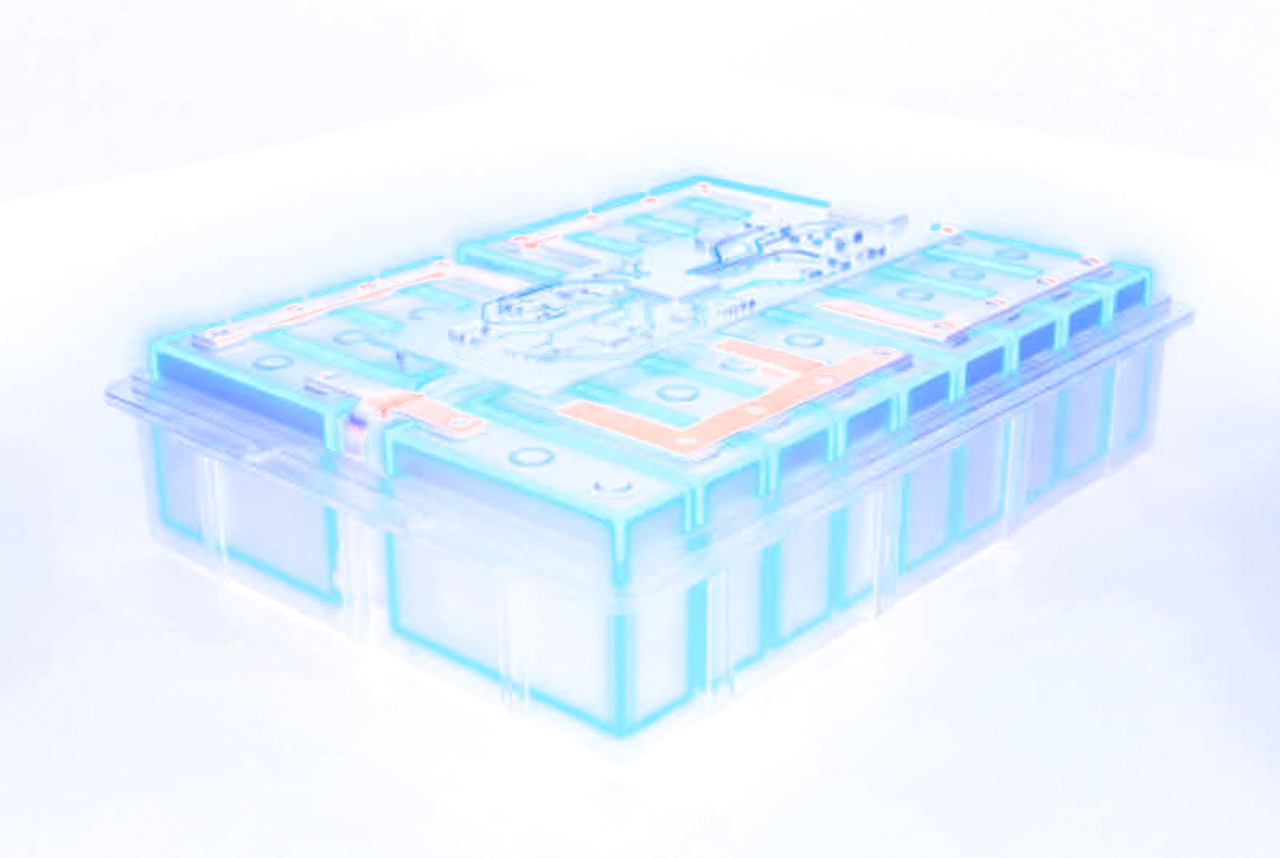
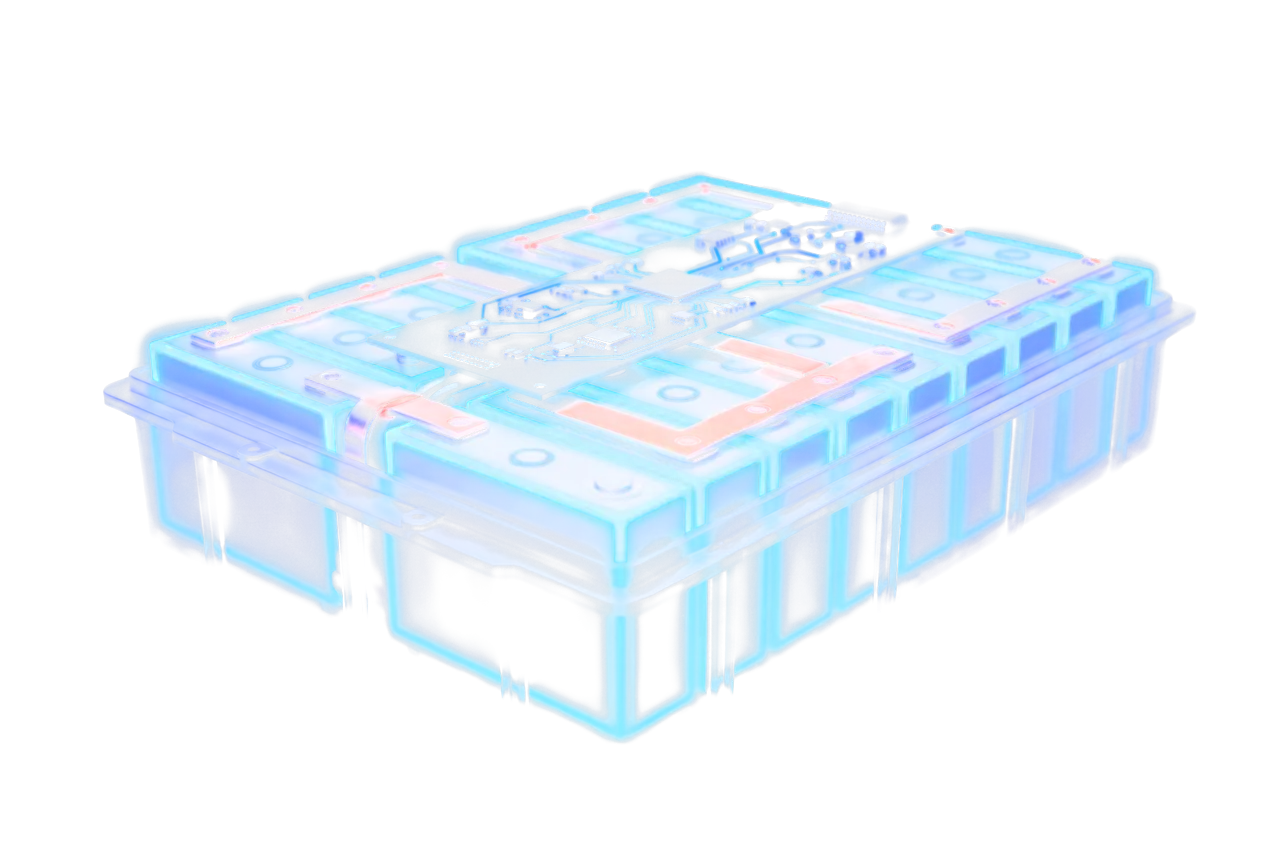
Clean projections (noise-aware keying, new globe), space finale with aurora + ringed planet, masked sheen

diff --git a/src/space.js b/src/space.js
@@ -31,10 +31,11 @@ function make(origin, tangent) {
     uniforms: { uTime: { value: 0 }, uStr: { value: 0 },
       cDeep: { value: new THREE.Color("#05070F") }, cIndigo: { value: new THREE.Color("#3B2E8C") },
       cBlue: { value: new THREE.Color("#1D4ED8") }, cCyan: { value: new THREE.Color("#5FE3FF") },
-      cViolet: { value: new THREE.Color("#8B5CF6") }, uAxis: { value: T.clone() } },
+      cViolet: { value: new THREE.Color("#8B5CF6") }, cGreen: { value: new THREE.Color("#3DFFB0") },
+      cYellow: { value: new THREE.Color("#FFE27A") }, uAxis: { value: T.clone() } },
     vertexShader: `varying vec3 vDir; void main(){ vDir = normalize(position); gl_Position = projectionMatrix * modelViewMatrix * vec4(position, 1.0); }`,
     fragmentShader: `precision highp float; varying vec3 vDir;
-      uniform float uTime, uStr; uniform vec3 cDeep, cIndigo, cBlue, cCyan, cViolet, uAxis;
+      uniform float uTime, uStr; uniform vec3 cDeep, cIndigo, cBlue, cCyan, cViolet, cGreen, cYellow, uAxis;
       ${NOISE}
       float stars(vec3 d, float scale, float thr, float tw){
         vec3 p = d * scale; vec3 i = floor(p); vec3 f = fract(p) - 0.5;
@@ -48,8 +49,9 @@ function make(origin, tangent) {
         vec3 d = normalize(vDir);
         // nebula: two layers of fbm pulled toward the pipe axis so the exit opens into a glowing cloud
         float axial = pow(max(0.0, dot(d, uAxis)), 1.6);
-        float n1 = fbm(d * 2.2 + vec3(uTime * 0.008, 0.0, 0.0));
-        float n2 = fbm(d * 5.0 - vec3(0.0, uTime * 0.006, 0.0));
+        float n1 = fbm(d * 2.2 + vec3(uTime * 0.020, uTime * 0.007, 0.0));
+        float n2 = fbm(d * 5.0 - vec3(0.0, uTime * 0.016, uTime * 0.005));
+        float n3 = fbm(d * 3.4 + vec3(uTime * 0.011, -uTime * 0.009, 4.0));
         float cloud = smoothstep(0.38, 0.85, n1 * 0.7 + n2 * 0.5);
         float wisps = smoothstep(0.55, 0.95, n2);
         vec3 neb = cDeep;
@@ -57,6 +59,14 @@ function make(origin, tangent) {
         neb = mix(neb, cBlue * 0.85, cloud * wisps * 0.9);
         neb = mix(neb, cViolet * 0.7, smoothstep(0.6, 0.9, n1) * (1.0 - axial) * 0.5);
         neb += cCyan * pow(wisps, 3.0) * 0.35 * (0.5 + axial);
+        // aurora: living green-teal curtains that ripple through the cloud, with golden cores
+        float aur = smoothstep(0.40, 0.78, n3) * (0.65 + 0.35 * sin(uTime * 0.6 + n1 * 12.0));
+        neb = mix(neb, cGreen * 0.85, aur * (0.35 + cloud * 0.65));
+        neb += cYellow * pow(aur, 2.0) * 0.55 * (0.5 + 0.5 * sin(uTime * 0.9 + n2 * 20.0));
+        neb += cGreen * pow(max(0.0, n2 - 0.5) * 2.0, 2.0) * 0.35;
+        // slow golden shafts sweeping across (light through the cloud)
+        float shaft = pow(0.5 + 0.5 * sin(dot(d, vec3(3.0, 5.0, 2.0)) * 4.0 + uTime * 0.25 + n1 * 3.0), 6.0);
+        neb += cYellow * shaft * 0.10 * cloud;
         neb *= 0.55 + axial * 0.9;
         // a luminous band (our galaxy) across the sky
         float band = exp(-pow(dot(d, normalize(cross(uAxis, vec3(0.3, 1.0, 0.2)))), 2.0) * 9.0);
@@ -65,7 +75,10 @@ function make(origin, tangent) {
         float st = stars(d, 60.0, 0.955, 1.0) * 1.4
                  + stars(d, 130.0, 0.945, 1.6) * 0.9
                  + stars(d, 260.0, 0.93, 2.2) * 0.5;
-        vec3 col = neb + vec3(0.9, 0.96, 1.0) * st * (0.7 + band * 0.8);
+        // stars in three temperatures: ice-white, warm gold, faint green
+        float hue = hash(floor(d * 60.0) + 9.0);
+        vec3 starCol = hue < 0.55 ? vec3(0.9, 0.96, 1.0) : (hue < 0.85 ? cYellow : cGreen);
+        vec3 col = neb + starCol * st * (0.8 + band * 0.9);
         gl_FragColor = vec4(col * uStr, 1.0);
       }`
   });
@@ -76,36 +89,50 @@ function make(origin, tangent) {
   const sunDir = new THREE.Vector3().copy(T).multiplyScalar(-0.3).addScaledVector(R, -0.8).addScaledVector(U, 0.5).normalize();
   const planetMat = new THREE.ShaderMaterial({
     uniforms: { uTime: { value: 0 }, uStr: { value: 0 }, uSun: { value: sunDir },
-      cA: { value: new THREE.Color("#0B1A4A") }, cB: { value: new THREE.Color("#1D4ED8") },
-      cC: { value: new THREE.Color("#5FE3FF") }, cD: { value: new THREE.Color("#3B2E8C") } },
+      cA: { value: new THREE.Color("#12327F") }, cB: { value: new THREE.Color("#5FA8FF") },
+      cC: { value: new THREE.Color("#E6FAFF") }, cD: { value: new THREE.Color("#A48BFF") },
+      cGold: { value: new THREE.Color("#FFE7B8") } },
     vertexShader: `varying vec3 vN; varying vec3 vP; varying vec3 vV;
       void main(){ vN = normalize(normalMatrix * normal); vP = position;
         vec4 mv = modelViewMatrix * vec4(position, 1.0); vV = normalize(-mv.xyz); gl_Position = projectionMatrix * mv; }`,
     fragmentShader: `precision highp float; varying vec3 vN; varying vec3 vP; varying vec3 vV;
-      uniform float uTime, uStr; uniform vec3 uSun, cA, cB, cC, cD;
+      uniform float uTime, uStr; uniform vec3 uSun, cA, cB, cC, cD, cGold;
       ${NOISE}
       void main(){
         vec3 p = normalize(vP);
         float lat = p.y;
-        float turb = fbm(vec3(p.x * 3.0 + uTime * 0.02, lat * 9.0, p.z * 3.0)) - 0.5;
-        float bands = sin(lat * 26.0 + turb * 6.0) * 0.5 + 0.5;
-        float storm = smoothstep(0.75, 0.95, fbm(p * 6.0 + 3.0));
-        vec3 col = mix(cA, cB, bands);
-        col = mix(col, cD, smoothstep(0.3, 0.7, fbm(vec3(lat * 4.0, p.x, p.z) + 7.0)) * 0.6);
-        col = mix(col, cC, storm * 0.5);
+        // flowing bands: turbulence shears the latitude lines, slowly drifting
+        float turb = fbm(vec3(p.x * 2.6 + uTime * 0.03, lat * 8.0, p.z * 2.6)) - 0.5;
+        float turb2 = fbm(vec3(p.x * 7.0 - uTime * 0.02, lat * 20.0, p.z * 7.0) + 5.0) - 0.5;
+        float b1 = sin(lat * 22.0 + turb * 7.0 + turb2 * 2.0) * 0.5 + 0.5;
+        float b2 = sin(lat * 47.0 - turb * 4.0) * 0.5 + 0.5;
+        float storm = smoothstep(0.72, 0.95, fbm(p * 5.0 + vec3(uTime * 0.01, 0.0, 0.0) + 3.0));
+        vec3 col = mix(cA, cB, pow(b1, 1.4));
+        col = mix(col, cD, smoothstep(0.35, 0.75, b2) * 0.30 * (1.0 - b1));
+        col = mix(col, cC, storm * 0.7 + pow(b1, 6.0) * 0.25);
+        // polar ice caps with a rippling green aurora ring around them
+        col = mix(col, cC, smoothstep(0.78, 0.95, abs(lat)) * 0.7);
+        float auroraRing = smoothstep(0.62, 0.72, abs(lat)) * (1.0 - smoothstep(0.74, 0.84, abs(lat)));
+        float ripple = 0.5 + 0.5 * sin(atan(p.z, p.x) * 9.0 + uTime * 1.3 + turb * 6.0);
+        col += vec3(0.24, 1.0, 0.69) * auroraRing * ripple * 0.55;
         vec3 N = normalize(vN);
-        float diff = max(0.0, dot(N, normalize((viewMatrix * vec4(uSun, 0.0)).xyz)));
-        float wrap = pow(diff, 0.6) * 1.15 + 0.10;
+        vec3 L = normalize((viewMatrix * vec4(uSun, 0.0)).xyz);
+        float diff = max(0.0, dot(N, L));
+        float wrap = pow(diff, 0.55) * 1.2 + 0.08;
         float fres = pow(1.0 - max(0.0, dot(N, vV)), 3.0);
-        col = col * wrap + cC * fres * (0.35 + diff * 0.6);
+        // champagne-gold light along the terminator, icy blue atmosphere on the rim
+        float term = smoothstep(0.0, 0.25, diff) * (1.0 - smoothstep(0.25, 0.6, diff));
+        col = col * wrap + cGold * term * 0.16 + cB * fres * (0.35 + diff * 0.8) + cC * fres * fres * 0.5;
         gl_FragColor = vec4(col * uStr, 1.0);
       }`
   });
   const planet = new THREE.Mesh(new THREE.SphereGeometry(58, 64, 48), planetMat);
   const pPos = origin.clone().addScaledVector(T, 210).addScaledVector(R, 95).addScaledVector(U, 28);
-  planet.position.copy(pPos);
-  planet.rotation.z = 0.35; planet.rotation.x = 0.2;
-  group.add(planet);
+  const system = new THREE.Group();            // planet + ring share one axial tilt
+  system.position.copy(pPos);
+  system.rotation.set(0.42, 0.0, 0.30);
+  group.add(system);
+  system.add(planet);
 
   const ringMat = new THREE.ShaderMaterial({
     side: THREE.DoubleSide, transparent: true, depthWrite: false,
@@ -119,7 +146,8 @@ function make(origin, tangent) {
         float lanes = smoothstep(0.35, 0.8, g) * (1.0 - smoothstep(0.92, 1.0, r)) * smoothstep(0.0, 0.08, r);
         float gap = 1.0 - smoothstep(0.55, 0.58, r) * (1.0 - smoothstep(0.62, 0.65, r));
         float a = lanes * gap * 0.55;
-        vec3 col = mix(cB, cC, r) * (0.55 + 0.45 * g);
+        vec3 col = mix(mix(vec3(1.0, 0.89, 0.55), cB, smoothstep(0.0, 0.25, r)), cC, r) * (0.55 + 0.45 * g);
+        col = mix(col, vec3(0.45, 1.0, 0.75), smoothstep(0.78, 0.86, r) * (1.0 - smoothstep(0.86, 0.9, r)) * 0.6);
         gl_FragColor = vec4(col * uStr, a * uStr);
       }`
   });
@@ -128,9 +156,8 @@ function make(origin, tangent) {
   { const uv = ringGeo.attributes.uv, pos = ringGeo.attributes.position;
     for (let i = 0; i < uv.count; i++) { const x = pos.getX(i), y = pos.getY(i); uv.setXY(i, (Math.hypot(x, y) - 74) / (128 - 74), 0); } }
   const ring = new THREE.Mesh(ringGeo, ringMat);
-  ring.position.copy(pPos);
-  ring.rotation.set(Math.PI / 2 - 0.42, 0.18, 0.35);
-  group.add(ring);
+  ring.rotation.x = Math.PI / 2;                 // equatorial plane of the tilted system
+  system.add(ring);
 
   // atmosphere halo (additive sprite)
   const haloTex = (() => { const c = document.createElement("canvas"); c.width = c.height = 256;
@@ -142,7 +169,7 @@ function make(origin, tangent) {
   group.add(halo);
 
   /* ---- drifting dust ---- */
-  const COUNT = isMobile ? 500 : 1400;
+  const COUNT = isMobile ? 700 : 2200;
   const geo = new THREE.BufferGeometry();
   const arr = new Float32Array(COUNT * 3), sh = new Float32Array(COUNT);
   for (let i = 0; i < COUNT; i++) {
@@ -161,12 +188,43 @@ function make(origin, tangent) {
     fragmentShader: `precision highp float; varying float vS; uniform float uStr, uTime; uniform vec3 cB, cC;
       void main(){ float d = length(gl_PointCoord - 0.5); float a = smoothstep(0.5, 0.0, d);
         float tw = 0.6 + 0.4 * sin(uTime * (1.0 + vS * 2.0) + vS * 50.0);
-        gl_FragColor = vec4(mix(cB, cC, vS), a * tw * 0.8 * uStr); }`
+        vec3 col = vS < 0.6 ? mix(cB, cC, vS / 0.6) : (vS < 0.82 ? vec3(1.0, 0.88, 0.48) : vec3(0.35, 1.0, 0.7));
+        gl_FragColor = vec4(col, a * tw * 0.85 * uStr); }`
   });
   const dust = new THREE.Points(geo, dustMat); dust.frustumCulled = false;
   group.add(dust);
 
   sky.position.copy(origin).addScaledVector(T, 40);
+
+  /* ---- two moons on tilted orbits ---- */
+  const moonMat = new THREE.ShaderMaterial({
+    uniforms: { uStr: { value: 0 }, uSun: { value: sunDir }, cM: { value: new THREE.Color("#C9D6EA") }, cR: { value: new THREE.Color("#7FB8FF") } },
+    vertexShader: `varying vec3 vN; varying vec3 vV; varying vec3 vP; void main(){ vN = normalize(normalMatrix * normal); vP = position;
+      vec4 mv = modelViewMatrix * vec4(position, 1.0); vV = normalize(-mv.xyz); gl_Position = projectionMatrix * mv; }`,
+    fragmentShader: `precision highp float; varying vec3 vN; varying vec3 vV; varying vec3 vP; uniform float uStr; uniform vec3 uSun, cM, cR;
+      ${NOISE}
+      void main(){ vec3 N = normalize(vN); float diff = max(0.0, dot(N, normalize((viewMatrix * vec4(uSun, 0.0)).xyz)));
+        float crat = fbm(normalize(vP) * 9.0); vec3 col = cM * (0.55 + 0.45 * crat) * (pow(diff, 0.7) * 1.1 + 0.05);
+        col += cR * pow(1.0 - max(0.0, dot(N, vV)), 3.0) * 0.4; gl_FragColor = vec4(col * uStr, 1.0); }`
+  });
+  const moons = [
+    { m: new THREE.Mesh(new THREE.SphereGeometry(7, 32, 24), moonMat), r: 150, speed: 0.11, tilt: 0.35, phase: 0.8 },
+    { m: new THREE.Mesh(new THREE.SphereGeometry(4, 24, 16), moonMat), r: 195, speed: 0.07, tilt: -0.22, phase: 3.4 }
+  ];
+  moons.forEach(o => group.add(o.m));
+
+  /* ---- comets: additive streaks that cross the sky now and then ---- */
+  const cometTex = (() => { const c = document.createElement("canvas"); c.width = 256; c.height = 16;
+    const g = c.getContext("2d"), lg = g.createLinearGradient(0, 0, 256, 0);
+    lg.addColorStop(0, "rgba(255,255,255,0)"); lg.addColorStop(0.75, "rgba(160,220,255,0.35)"); lg.addColorStop(0.97, "rgba(255,255,255,1)"); lg.addColorStop(1, "rgba(255,255,255,0)");
+    g.fillStyle = lg; g.fillRect(0, 0, 256, 16); return new THREE.CanvasTexture(c); })();
+  const comets = [];
+  for (let i = 0; i < 3; i++) {
+    const m = new THREE.Mesh(new THREE.PlaneGeometry(60, 1.6), new THREE.MeshBasicMaterial({ map: cometTex, transparent: true, opacity: 0,
+      blending: THREE.AdditiveBlending, depthWrite: false, side: THREE.DoubleSide }));
+    group.add(m); comets.push({ m, t0: -10 - i * 7, period: 11 + i * 5, dur: 2.2, a: Math.random() * 6.28, b: Math.random(), armed: false });
+  }
+  const _cp = new THREE.Vector3(), _cd = new THREE.Vector3(), _X = new THREE.Vector3(1, 0, 0), _cq = new THREE.Quaternion();
   group.visible = false;
 
   return {
@@ -178,7 +236,29 @@ function make(origin, tangent) {
       planetMat.uniforms.uTime.value = t; planetMat.uniforms.uStr.value = str;
       ringMat.uniforms.uStr.value = str; halo.material.opacity = str * 0.9;
       dustMat.uniforms.uTime.value = t; dustMat.uniforms.uStr.value = str;
-      planet.rotation.y = t * 0.02;
+      planet.rotation.y = t * 0.06;
+      sky.rotation.y = t * 0.004; sky.rotation.x = Math.sin(t * 0.03) * 0.02;
+      ring.rotation.z = t * 0.01;
+      moonMat.uniforms.uStr.value = str;
+      moons.forEach(o => {
+        const a = t * o.speed + o.phase;
+        o.m.position.copy(pPos).addScaledVector(R, Math.cos(a) * o.r).addScaledVector(T, Math.sin(a) * o.r * 0.55)
+          .addScaledVector(U, Math.sin(a) * o.r * o.tilt);
+        o.m.rotation.y = t * 0.2;
+      });
+      comets.forEach(c => {
+        const k = ((t - c.t0) % c.period + c.period) % c.period;    // time since this comet last launched
+        if (k > c.dur) { c.m.material.opacity = 0; c.armed = false; return; }
+        const f = k / c.dur;
+        if (!c.armed) { c.a = Math.random() * 6.28; c.b = Math.random(); c.armed = true; }
+        // start high and to one side, streak across the field ahead of the exit
+        _cp.copy(origin).addScaledVector(T, 120 + c.b * 120).addScaledVector(R, Math.cos(c.a) * 150).addScaledVector(U, Math.sin(c.a) * 110 + 60);
+        _cd.copy(R).multiplyScalar(-1.0).addScaledVector(U, -0.7).addScaledVector(T, 0.2).normalize();
+        _cp.addScaledVector(_cd, f * 260);
+        c.m.position.copy(_cp);
+        _cq.setFromUnitVectors(_X, _cd); c.m.quaternion.copy(_cq);
+        c.m.material.opacity = Math.sin(f * Math.PI) * 0.9 * str;
+      });
     }
   };
 }

diff --git a/index.html b/index.html
@@ -167,8 +167,11 @@
     width:clamp(280px,34vw,500px); pointer-events:none; }
   /* soft dark halo behind each projection so it reads on ANY background,
      including the bright tunnel core on phones */
-  .st-viz-wrap::before{ content:""; position:absolute; inset:-14%; z-index:-1;
-    background:radial-gradient(52% 52% at 50% 50%, rgba(4,7,13,.78), transparent 74%); }
+  /* no halo on desktop: the projections carry real transparency, so any box shows */
+  .st-viz-wrap::before{ content:none; }
+  @media (max-width:720px){
+    .st-viz-wrap::before{ content:""; position:absolute; inset:-30%; z-index:-1; border-radius:50%;
+      background:radial-gradient(closest-side, rgba(4,7,13,.55), transparent); } }
   .st-viz{ width:100%; height:auto; display:block;
     filter:drop-shadow(0 0 26px rgba(59,130,246,.20)); }
 
@@ -180,10 +183,13 @@
     -webkit-mask-image:radial-gradient(120% 120% at 50% 50%, #000 58%, transparent 92%);
             mask-image:radial-gradient(120% 120% at 50% 50%, #000 58%, transparent 92%); }
   .st-photo img{ width:100%; height:auto; display:block; transform-origin:60% 45%;
-    filter:drop-shadow(0 0 34px rgba(59,130,246,.22));
+    filter:drop-shadow(0 0 14px rgba(95,227,255,.12));
     animation:kenburns 22s ease-in-out infinite alternate,
               holoflicker 8.5s linear infinite; }
-  .st-photo::after{ content:""; position:absolute; inset:-10%;
+  /* the light sweep is masked by the projection itself, so it only ever touches the subject */
+  .st-photo::after{ content:""; position:absolute; inset:0;
+    -webkit-mask-image:var(--img); mask-image:var(--img);
+    -webkit-mask-size:100% 100%; mask-size:100% 100%; -webkit-mask-repeat:no-repeat; mask-repeat:no-repeat;
     background:linear-gradient(112deg, transparent 43%,
       rgba(170,225,255,.16) 50%, rgba(170,225,255,.05) 53%, transparent 60%);
     animation:sheen 6.5s ease-in-out infinite; pointer-events:none; }
@@ -479,10 +485,10 @@
 <script src="lib/gsap.min.js"></script>
 <script src="lib/ScrollTrigger.min.js"></script>
 <script src="lib/lenis.min.js"></script>
-<script src="src/content.js?v=7"></script>
-<script src="src/scenes.js?v=7"></script>
-<script src="src/viz.js?v=7"></script>
-<script src="src/space.js?v=7"></script>
-<script src="src/app.js?v=7"></script>
+<script src="src/content.js?v=9"></script>
+<script src="src/scenes.js?v=9"></script>
+<script src="src/viz.js?v=9"></script>
+<script src="src/space.js?v=9"></script>
+<script src="src/app.js?v=9"></script>
 </body>
 </html>

diff --git a/src/app.js b/src/app.js
@@ -559,9 +559,14 @@ function rigCamera(p) {
     // leaving the pipe: drift out of the mouth into open space, eyes on the planet
     const ex = smoother(ramp(p, 0.940, 1.0));
     if (ex > 0 && space) {
+      // glide out, then a slow cinematic drift/orbit while parked at the end
       camera.position.addScaledVector(camTan, ex * 48);
+      const right = camTan.clone().cross(worldUp).normalize();
+      camera.position.addScaledVector(right, Math.sin(nowS * 0.11) * 7 * ex);
+      camera.position.addScaledVector(worldUp, Math.cos(nowS * 0.09) * 4 * ex);
       _v2.copy(camera.position).addScaledVector(camTan, 12);
-      _v2.lerp(space.planetPos, ex * 0.10);
+      _v2.lerp(space.planetPos, ex * 0.16);
+      _v2.addScaledVector(right, Math.sin(nowS * 0.07 + 1.0) * 3 * ex);
       camera.up.lerp(worldUp, ex);
       camera.lookAt(_v2);
     }
@@ -597,7 +602,7 @@ CV.stations.forEach((st, i) => {
         <div class="st-tools"></div>
         <ul class="st-bullets"></ul>
       </div>
-      ${hasImg ? '<div class="st-viz-wrap"><div class="st-photo"><img src="' + st.img + '" alt="" loading="lazy" /></div></div>' : ""}
+      ${hasImg ? '<div class="st-viz-wrap"><div class="st-photo" style="--img:url(' + st.img + ')"><img src="' + st.img + '" alt="" loading="lazy" /></div></div>' : ""}
       ${hasViz ? '<div class="st-viz-wrap"><canvas class="st-viz" width="560" height="340"></canvas></div>' : ""}
     </div>`;
   stage.appendChild(el);

diff --git a/tools/to_projection.py b/tools/to_projection.py
@@ -1,0 +1,40 @@
+"""Turn a black-background render into a floating 'projection' (RGBA WebP).
+
+Black -> transparent, with two guards against the faint "box" that plain
+luminance keying produces:
+  1. noise-aware: isolated near-black specks are dropped unless their
+     neighbourhood also carries light (spatial coherence),
+  2. gentle un-premultiply: dim pixels are brightened at most 3x, not blown to
+     full white, so residual haze can't read as a light rectangle.
+
+usage: python to_projection.py <src.png> <out.webp> [more src out pairs]
+"""
+import sys, numpy as np
+from PIL import Image, ImageFilter
+
+LO, HI = 30, 76          # noise floor / full-opacity point (0-255 max(R,G,B))
+
+def convert(src, out):
+    im = Image.open(src).convert("RGB")
+    im.thumbnail((1280, 1280), Image.LANCZOS)
+    rgb = np.asarray(im).astype(np.float32)
+    m = rgb.max(axis=2)
+    # base alpha: 0 below LO, ramps LO..HI, then follows brightness
+    a = np.where(m <= LO, 0.0, np.where(m < HI, (m - LO) * HI / (HI - LO), m))
+    # spatial coherence: blur the alpha; lonely specks have a dark neighbourhood
+    blur = np.asarray(Image.fromarray(np.clip(a, 0, 255).astype(np.uint8)).filter(ImageFilter.BoxBlur(5))).astype(np.float32)
+    coh = np.clip((blur - 6.0) / 34.0, 0.0, 1.0)
+    strong = np.clip((a - 60.0) / 40.0, 0.0, 1.0)          # bright pixels keep themselves
+    a = a * (strong + (1.0 - strong) * coh)
+    # colour: un-premultiply, capped
+    scale = np.where(m > 0, np.minimum(255.0 / np.maximum(m, 1.0), 3.0), 0.0)
+    col = np.clip(rgb * scale[..., None], 0, 255)
+    rgba = np.dstack([col, np.clip(a, 0, 255)]).astype(np.uint8)
+    rgba[a <= 0.5] = 0
+    Image.fromarray(rgba, "RGBA").save(out, "WEBP", quality=72, method=6)
+    return rgba.shape[1], rgba.shape[0]
+
+if __name__ == "__main__":
+    args = sys.argv[1:]
+    for s, o in zip(args[::2], args[1::2]):
+        print(o, convert(s, o))
